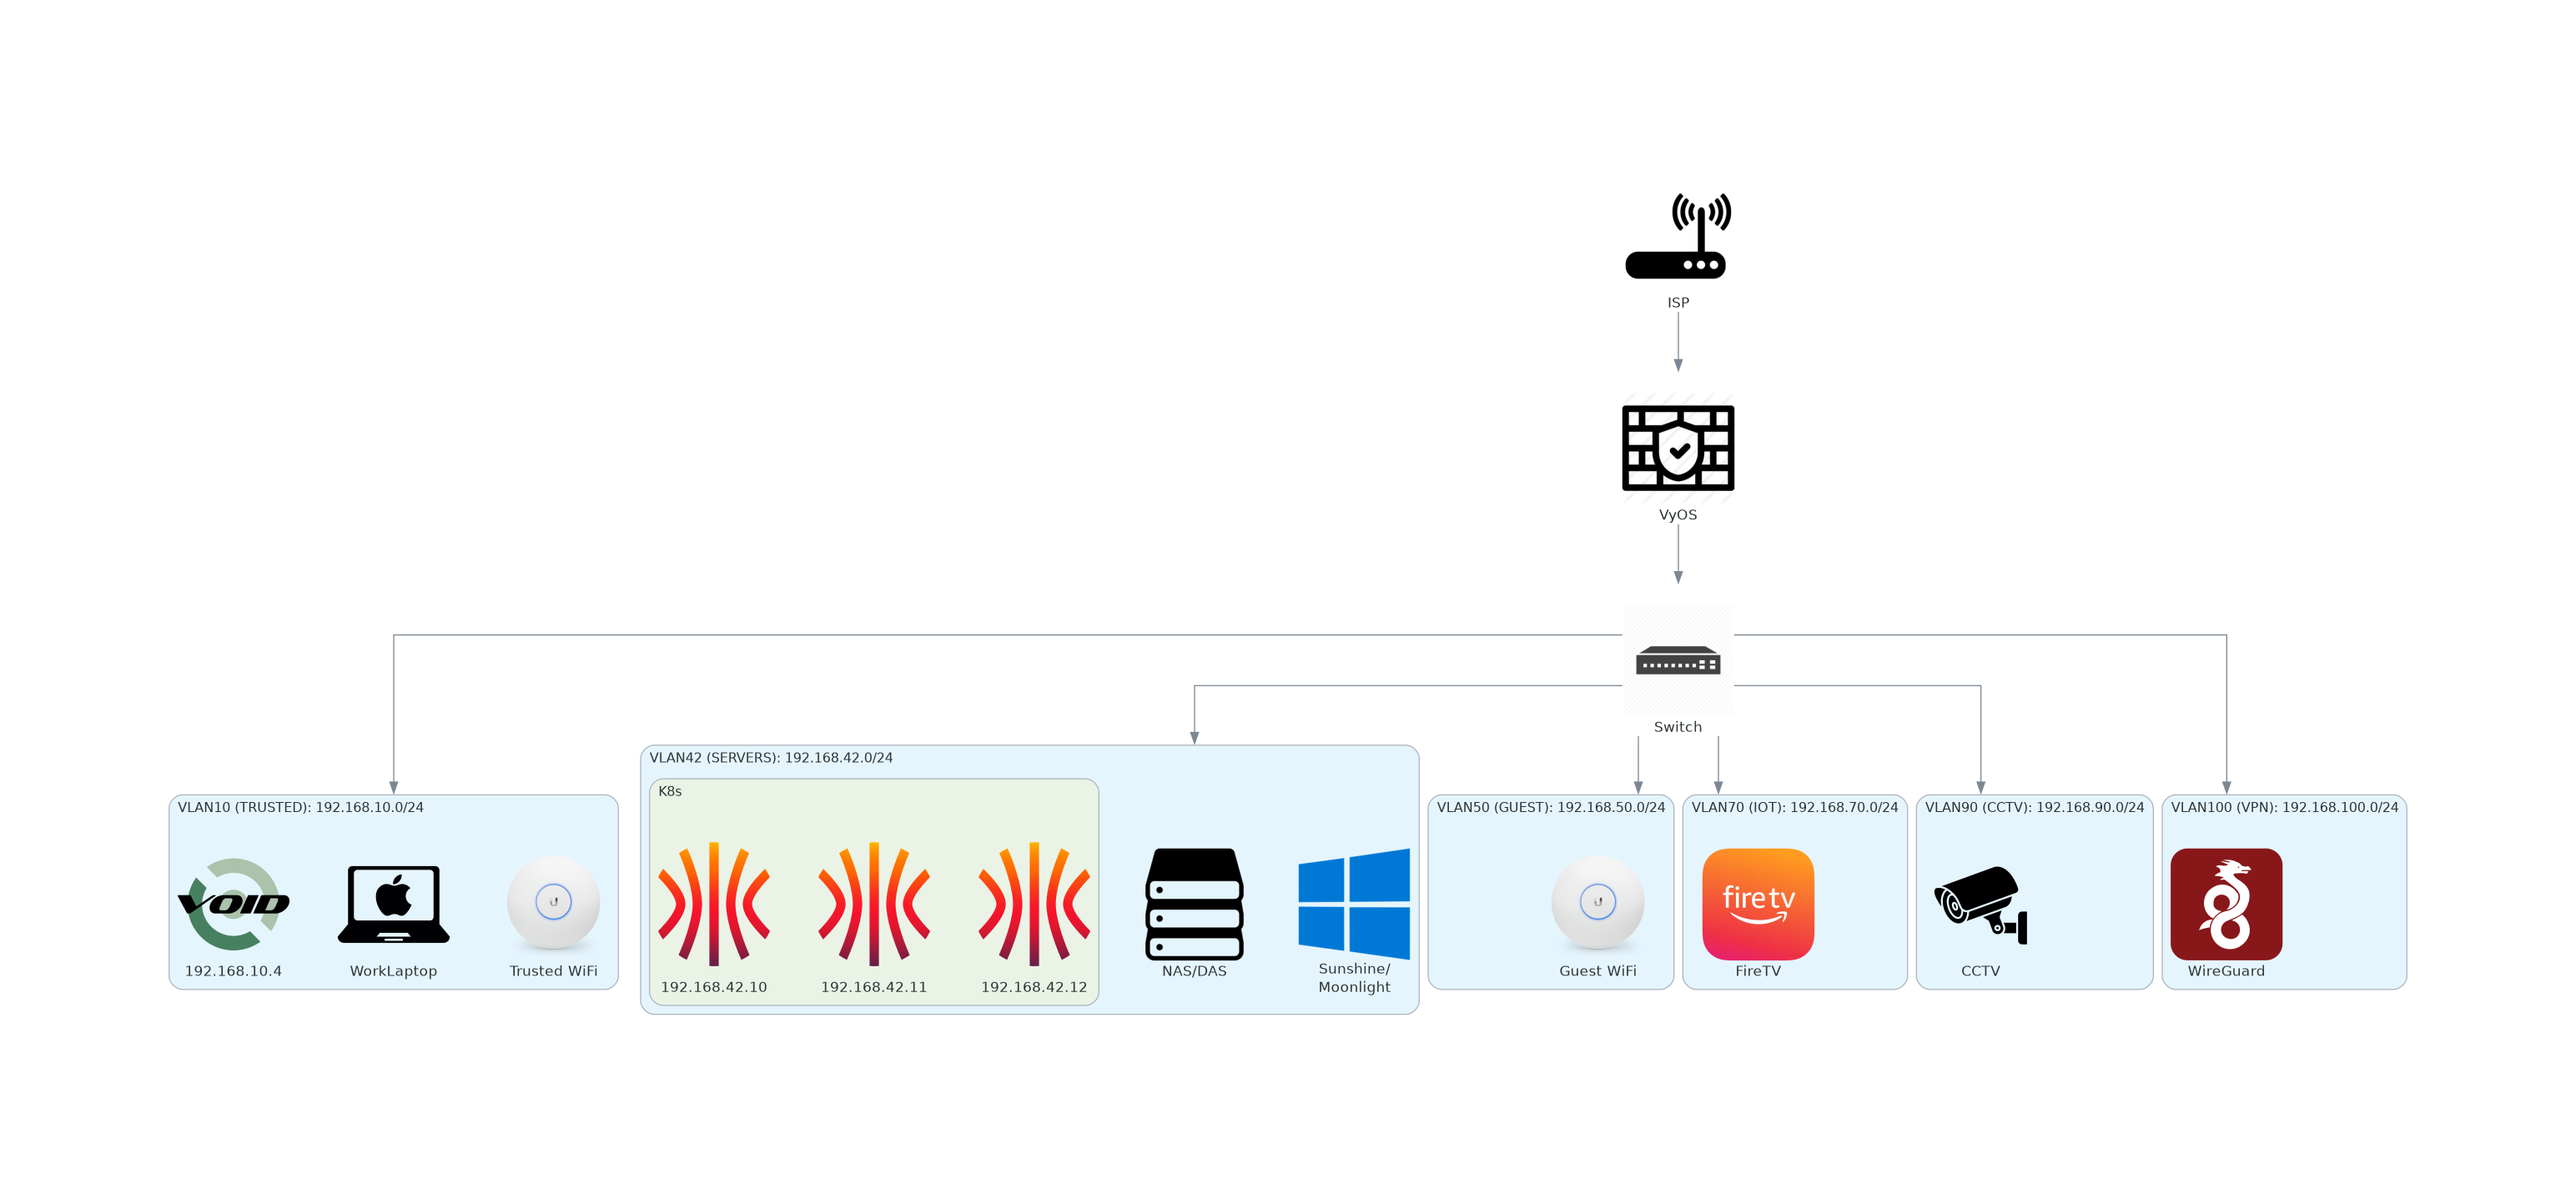
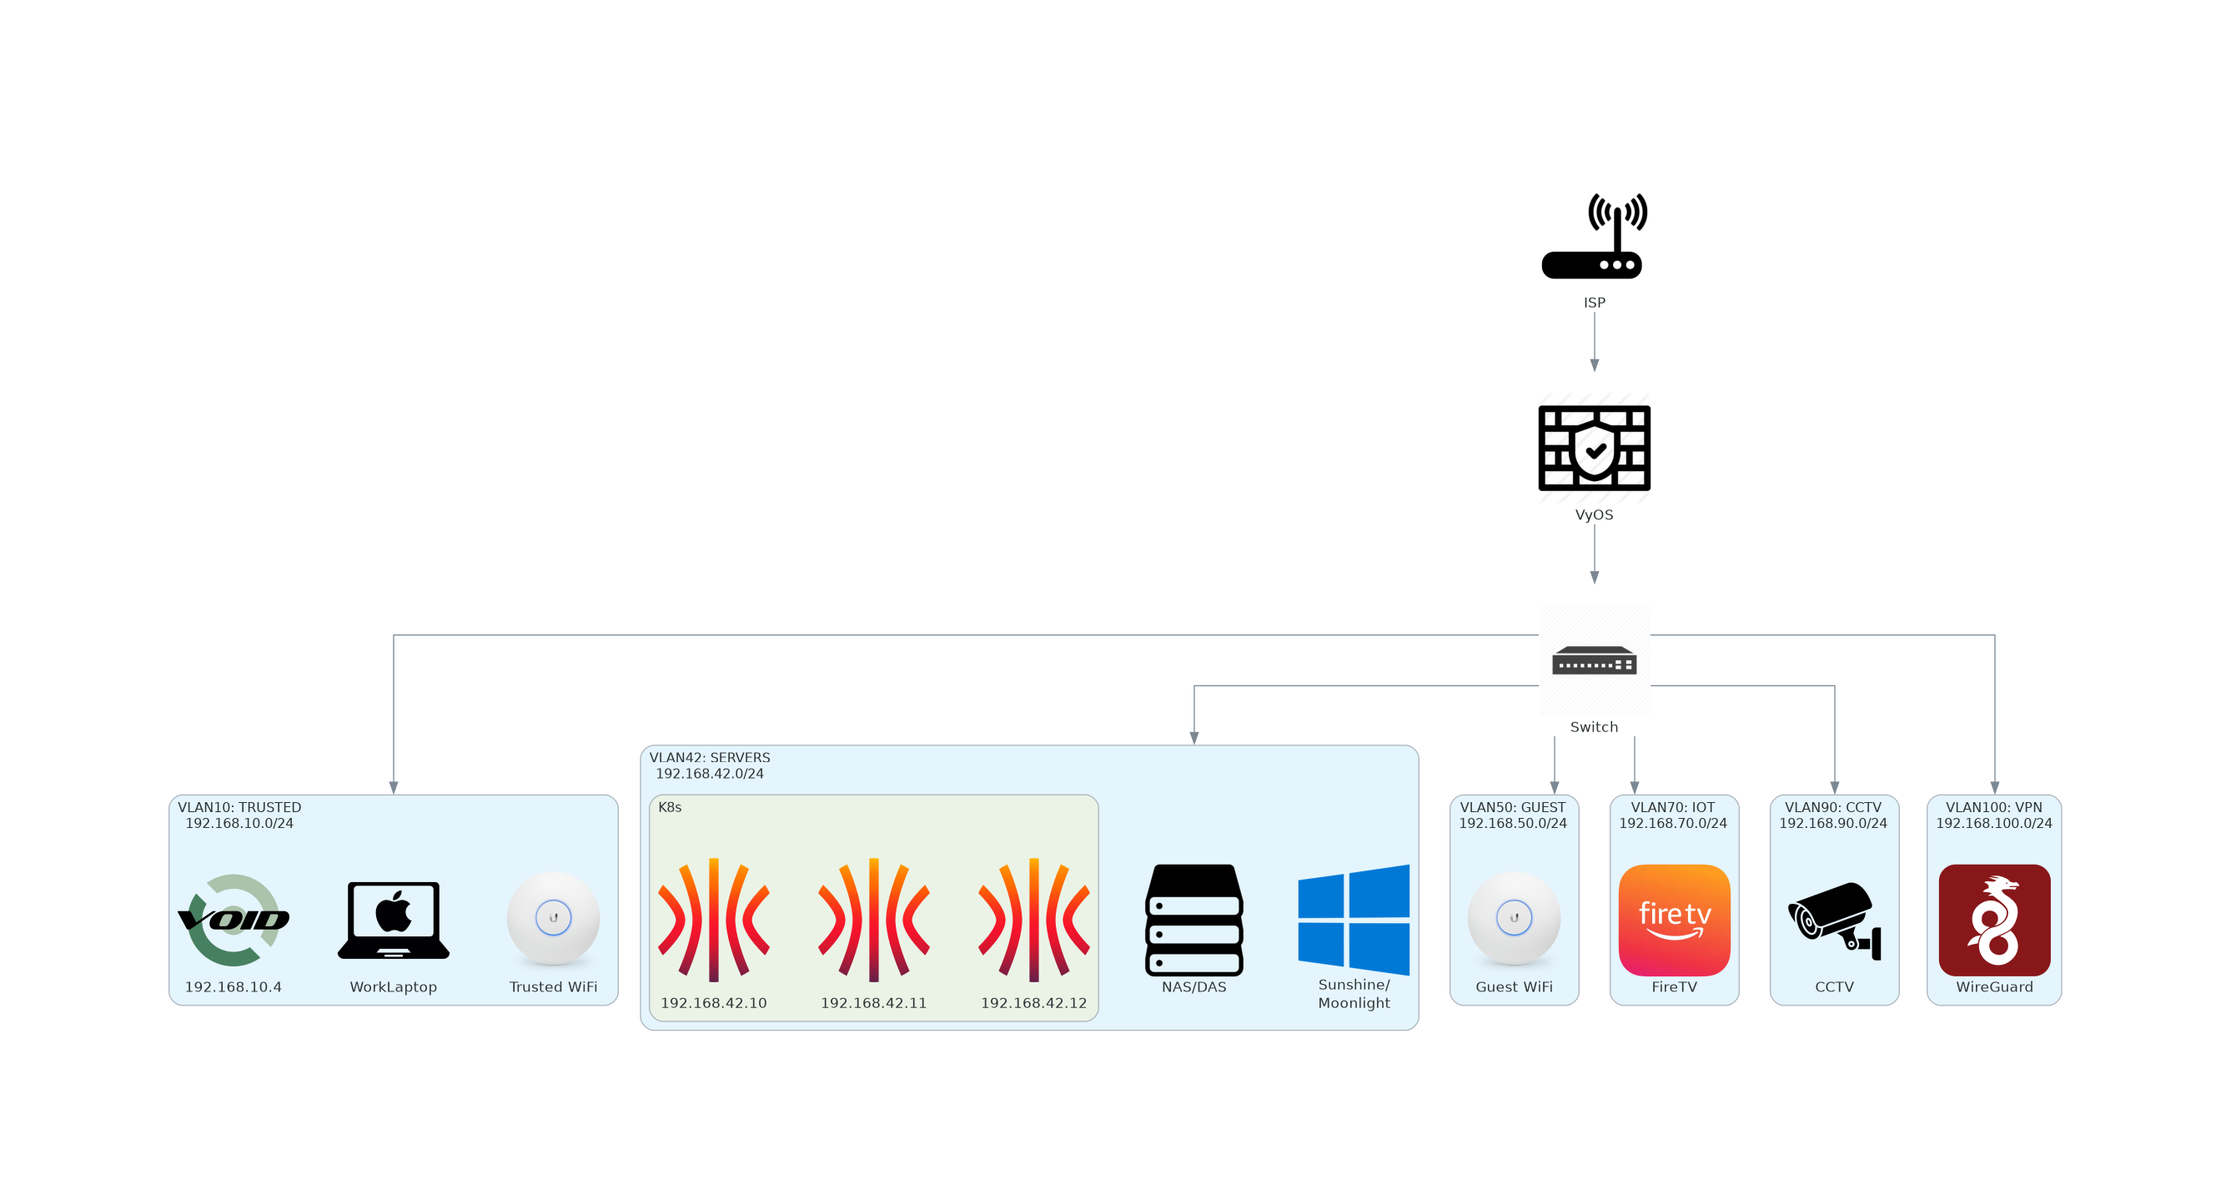
cleanup

diff --git a/main.py b/main.py
@@ -12,7 +12,7 @@ graph_attr = {
 with Diagram("", filename="home_networking", show=False, graph_attr=graph_attr, direction="TB"):
     switch = Switch("Switch")
 
-    with Cluster("10", graph_attr={"label": "VLAN10 (TRUSTED): 192.168.10.0/24"}):
+    with Cluster("10", graph_attr={"label": "VLAN10: TRUSTED\n192.168.10.0/24"}):
         void = Custom("192.168.10.4", "./resources/void.png")
         vlan10 = [
             void,
@@ -20,7 +20,7 @@ with Diagram("", filename="home_networking", show=False, graph_attr=graph_attr, 
             Custom("Trusted WiFi", "./resources/ap_unifi.png")
         ]
     
-    with Cluster("42", graph_attr={"label": "VLAN42 (SERVERS): 192.168.42.0/24"}):
+    with Cluster("42", graph_attr={"label": "VLAN42: SERVERS\n192.168.42.0/24"}):
 
         with Cluster("K8s"):
             k8s = [
@@ -38,22 +38,22 @@ with Diagram("", filename="home_networking", show=False, graph_attr=graph_attr, 
         ]
     
     
-    with Cluster("50", graph_attr={"label": "VLAN50 (GUEST): 192.168.50.0/24"}):
+    with Cluster("50", graph_attr={"label": "VLAN50: GUEST\n192.168.50.0/24"}):
         vlan50 = [
             Custom("Guest WiFi", "./resources/ap_unifi.png"),
         ]
 
-    with Cluster("70", graph_attr={"label": "VLAN70 (IOT): 192.168.70.0/24"}):
+    with Cluster("70", graph_attr={"label": "VLAN70: IOT\n192.168.70.0/24"}):
         vlan70 = [
             Custom("FireTV", "./resources/firetv.png")
         ]
     
-    with Cluster("90", graph_attr={"label": "VLAN90 (CCTV): 192.168.90.0/24"}):
+    with Cluster("90", graph_attr={"label": "VLAN90: CCTV\n192.168.90.0/24"}):
         vlan90 = [
             Custom("CCTV", "./resources/cctv.png")
         ]
     
-    with Cluster("100", graph_attr={"label": "VLAN100 (VPN): 192.168.100.0/24"}):
+    with Cluster("100", graph_attr={"label": "VLAN100: VPN\n192.168.100.0/24"}):
         vlan100 = [
             Custom("WireGuard", "./resources/wireguard.svg")
         ]
